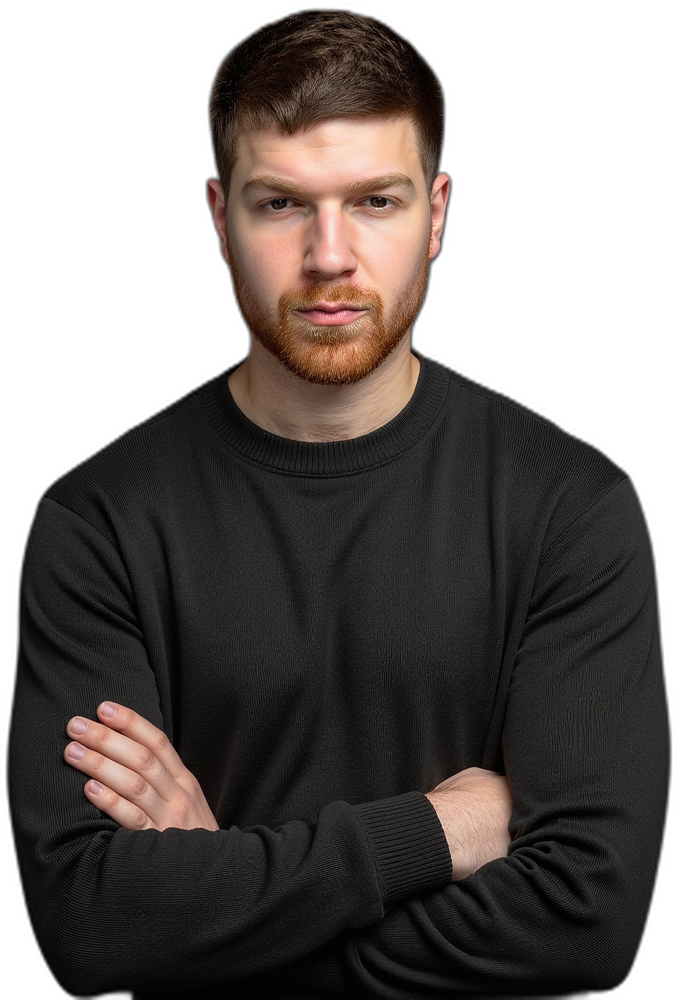
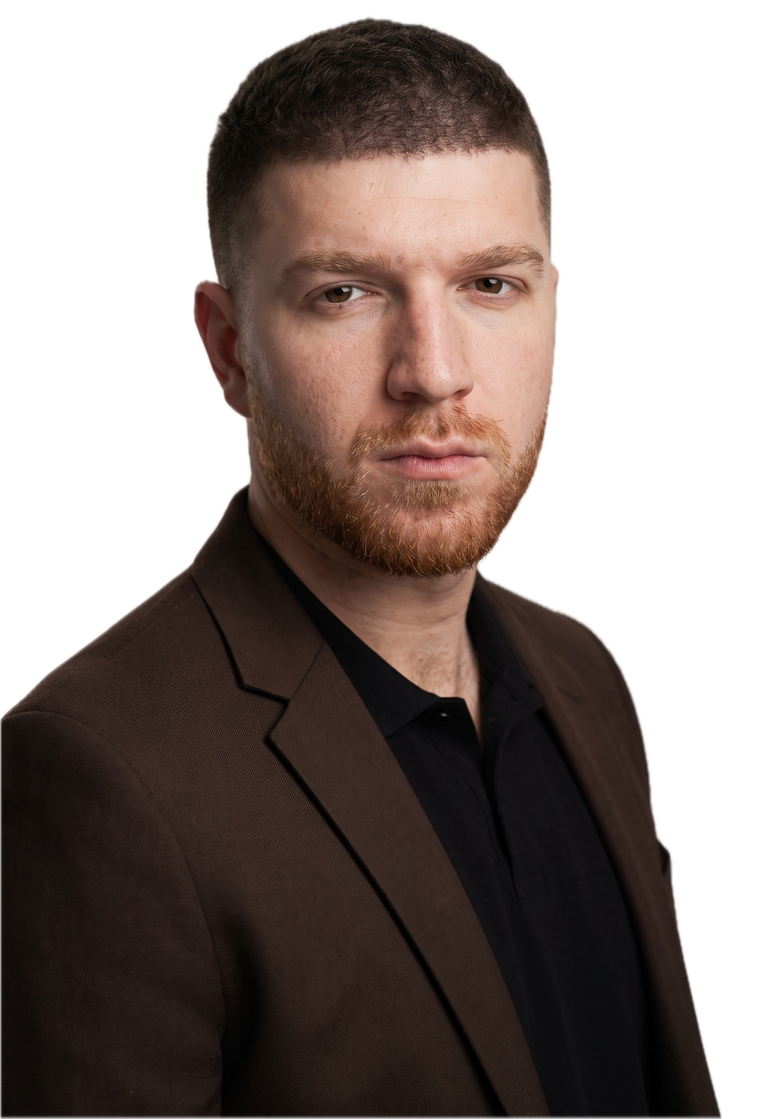
feat(hero): new studio portrait + phone-width nav and hero fixes
- Replace the hero portrait with the new studio headshot (Vision
  subject-lift cutout, 760x1119 PNG + 82KB WebP).
- True-375px fixes the old 500px-min headless tests missed: nav no
  longer overflows (wordmark hidden on phones, the DA monogram carries
  identity; tighter link gaps), and the portrait sits flush on the
  logo band instead of floating above it.
- Keep the original photo out of the public repo via .gitignore.

diff --git a/index.html b/index.html
@@ -719,6 +719,15 @@
   @media(max-width:620px){
     .stickybar .msg span{display:none}
     .stickybar .acts a.ghost{display:none}
+    /* phone nav: the DA monogram carries identity; the wordmark text won't fit beside 3 links + CTA */
+    .nav{padding:14px 16px}
+    .nav .mark > span:last-child{display:none}
+    .nav-right{gap:14px}
+    .nav-links{gap:14px}
+    .nav-links a{font-size:13px}
+    .nav a.cta-mini{padding:8px 13px;font-size:12.5px}
+    /* portrait sits flush on the logo band, like desktop (no floating bottom cut) */
+    .hero{padding-bottom:0}
     .proofstrip .wrap{flex-wrap:wrap;gap:10px 20px}
     .pl-logo{font-size:16px}
     .pl-label{width:100%;text-align:center;margin:0 0 2px}
@@ -873,7 +882,7 @@
       <div class="hero-portrait rv" style="--i:2">
         <picture>
           <source srcset="david-portrait.webp" type="image/webp">
-          <img src="david-portrait.png" alt="David Arzumanian, fractional experimentation lead" width="679" height="1000" loading="eager" decoding="async">
+          <img src="david-portrait.png" alt="David Arzumanian, fractional experimentation lead" width="760" height="1119" loading="eager" decoding="async">
         </picture>
       </div>
     </div>
